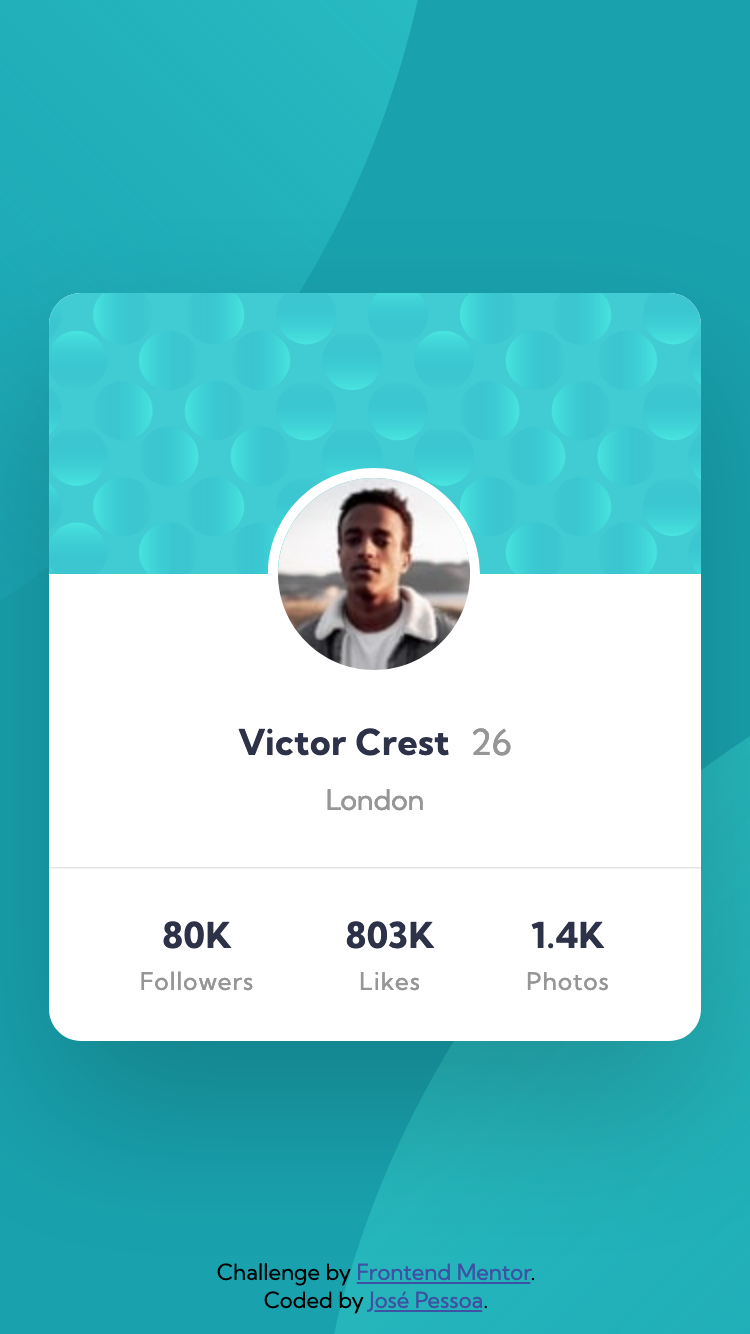
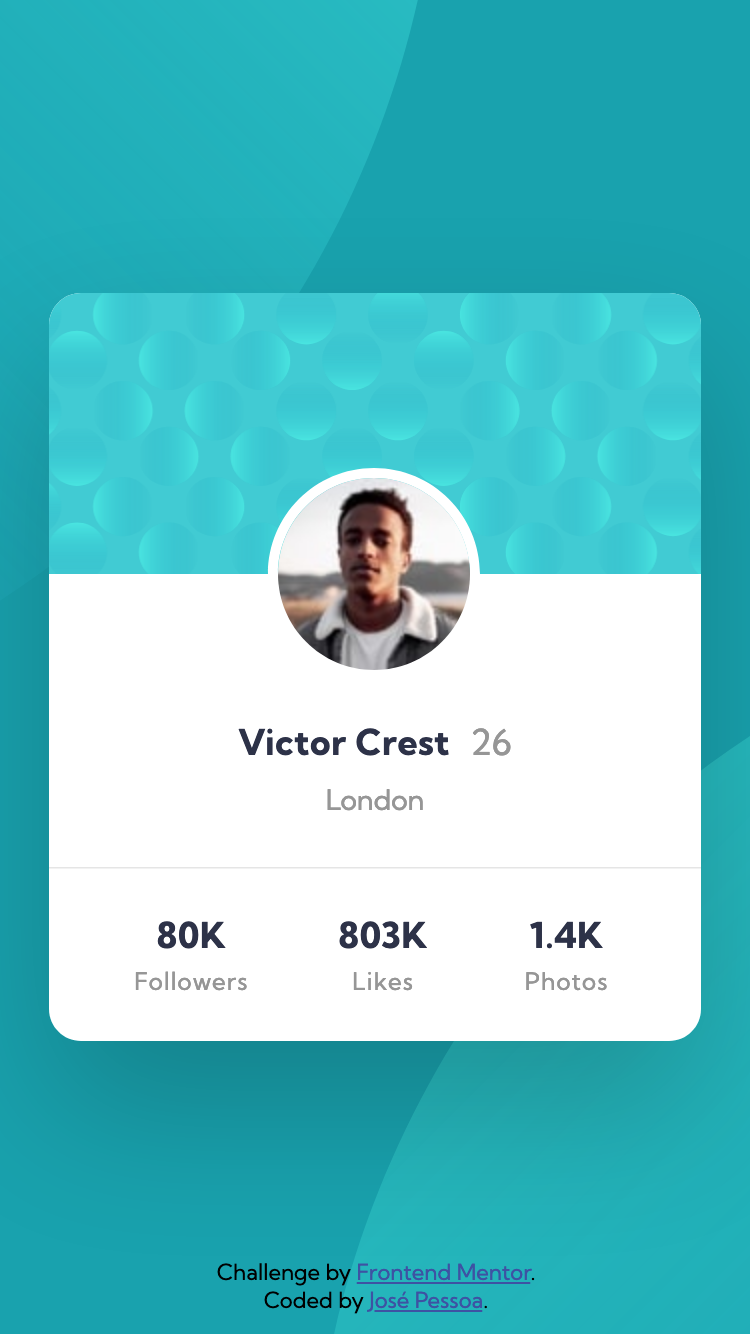
semantic and positioning updates

Changed region(s): [[0.184, 0.6762, 0.3373, 0.7684], [0.46, 0.6762, 0.5827, 0.7376], [0.7053, 0.6762, 0.7973, 0.7376]]

diff --git a/index.html b/index.html
@@ -22,21 +22,6 @@
     <link rel="stylesheet" href="./css/style.css" />
 
     <title>Frontend Mentor | Profile card component</title>
-
-    <!-- Feel free to remove these styles or customise in your own stylesheet 👍 -->
-    <style>
-      .attribution {
-        font-size: 11px;
-        text-align: center;
-        position: absolute;
-        bottom: 10px;
-        left: 50%;
-        transform: translate(-50%);
-      }
-      .attribution a {
-        color: hsl(228, 45%, 44%);
-      }
-    </style>
   </head>
   <body>
     <main>
@@ -46,28 +31,39 @@
           <img
             class="card-header-img"
             src="./images/image-victor.jpg"
-            alt="Profile Picture"
+            alt="Victor Crest"
           />
           <div class="card-header-info">
             <div class="header-info-name-age">
-              <h1>Victor Crest</h1>
-              <p>26</p>
+              <h1 class="header-info-name">Victor Crest</h1>
+              <p class="header-info-age">26</p>
             </div>
-            <p class="header-info-location">London</p>
+            <address class="header-info-location">London</address>
           </div>
         </header>
-        <section class="card-stats">
-          <h2>80K <span>Followers</span></h2>
-          <h2>803K <span>Likes</span></h2>
-          <h2>1.4K <span>Photos</span></h2>
+        <section>
+          <ul class="card-stats-list">
+            <li class="stat-number">
+              80K <span class="stat-info">Followers</span>
+            </li>
+            <li class="stat-number">
+              803K <span class="stat-info">Likes</span>
+            </li>
+            <li class="stat-number">
+              1.4K <span class="stat-info">Photos</span>
+            </li>
+          </ul>
         </section>
       </article>
     </main>
     <footer class="attribution">
       Challenge by
-      <a href="https://www.frontendmentor.io?ref=challenge" target="_blank"
+      <a
+        href="https://www.frontendmentor.io?ref=challenge"
+        class="attribution-link"
+        target="_blank"
         >Frontend Mentor</a
-      >. Coded by <a href="#">José Pessoa</a>.
+      >. Coded by <a href="#" class="attribution-link">José Pessoa</a>.
     </footer>
   </body>
 </html>

diff --git a/css/style.css b/css/style.css
@@ -71,14 +71,14 @@ main {
   text-align: center;
 }
 
-.header-info-name-age h1 {
+.header-info-name {
   display: inline;
   font-size: 1.1rem;
   color: var(--desat-blue);
   letter-spacing: 0.025rem;
 }
 
-.header-info-name-age p {
+.header-info-age {
   display: inline;
   color: var(--dark-gray);
   font-size: 1.1rem;
@@ -89,23 +89,27 @@ main {
   color: var(--dark-gray);
   padding-top: 0.525rem;
   font-size: 0.875rem;
+  font-style: normal;
 }
 
-.card-stats {
+.card-stats-list {
   display: flex;
   justify-content: space-evenly;
   align-items: center;
   height: 5.4rem;
+  list-style: none;
   text-align: center;
 }
 
-.card-stats h2 {
+.stat-number {
   font-size: 1.1rem;
   letter-spacing: 0.025rem;
   color: var(--desat-blue);
+  font-weight: 700;
+  flex: 0 0 15%;
 }
 
-.card-stats span {
+.stat-info {
   display: block;
   color: var(--dark-gray);
   font-size: 0.75rem;
@@ -118,4 +122,18 @@ main {
   body {
     background-position: right 51.75vw bottom 35.4vh, left 48.1vw top 52.1vh;
   }
+}
+
+/* Footer */
+
+.attribution {
+  font-size: 11px;
+  text-align: center;
+  position: absolute;
+  bottom: 10px;
+  left: 50%;
+  transform: translate(-50%);
+}
+.attribution-link {
+  color: hsl(228, 45%, 44%);
 }
